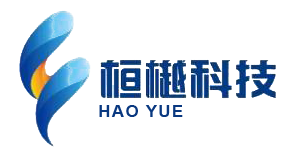
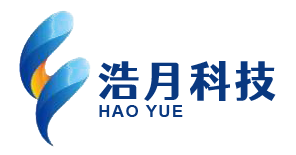
edit text 浩月

Changed region(s): [[0.3345, 0.3871, 0.9426, 0.671]]

diff --git a/index.html b/index.html
@@ -43,7 +43,7 @@
                   </div>
                   <div class="u-container-style u-layout-cell u-size-30 u-layout-cell-2">
                     <div class="u-container-layout u-valign-middle-lg u-valign-middle-xl u-valign-middle-xs u-valign-middle-xxl u-container-layout-3">
-                      <p class="u-text u-text-default-lg u-text-2"> +全球加粉引流浩月科技 TG飞机@HY0995</p>
+                      <p class="u-text u-text-default-lg u-text-2"> 全球加粉引流浩月科技 TG飞机@HY0995</p>
                     </div>
                   </div>
                 </div>
@@ -59,17 +59,17 @@
               <li> 选择怎样的海外社交媒体平台？</li>
             </ul>
             <p class="u-text u-text-7"> 选择适用于您的企业客户人群所集中的的社交平台，并且通过目标受众标准比如：年龄，性别，国家，职业，兴趣，收入等选择到最精准的广告受众！<br>
-              <br>风火轮科技拥有丰富的行业经验和完善的策略方针，深耕海外社交生态，科技等多个专门领域，为您度身定制最优营销方案。对全球不同市场有这深刻的洞察力和见解。以海量用户信息为依托，精准用户行为模式，洞察全球移动互联网趋势，提供更精准的服务。
+              <br>浩月科技拥有丰富的行业经验和完善的策略方针，深耕海外社交生态，科技等多个专门领域，为您度身定制最优营销方案。对全球不同市场有这深刻的洞察力和见解。以海量用户信息为依托，精准用户行为模式，洞察全球移动互联网趋势，提供更精准的服务。
             </p>
             <img class="u-image u-image-default u-image-3" src="images/v2-3e417629053006218260269a1bd63cee_r.jpg" alt="" data-image-width="6000" data-image-height="4000">
             <ol class="u-text u-text-8">
-              <li>分析客户业务特征，定位潜在客户，利用全球客户OP信息大数据系统，筛选最优关键字和目标活跃人群，使用风火轮精准雷达靶向系统，快速筛选符合客户业务的高精准数据与高精准粉丝，快速引流精准粉丝到客户的业务生态；<br>
+              <li>分析客户业务特征，定位潜在客户，利用全球客户OP信息大数据系统，筛选最优关键字和目标活跃人群，使用浩月精准雷达靶向系统，快速筛选符合客户业务的高精准数据与高精准粉丝，快速引流精准粉丝到客户的业务生态；<br>
               </li>
-              <li>提供最专业的引流投放方案，根据客户业务特性，提供最符合客户业务的引流投放方案，客户可轻松放心跟风火轮最简单的业务对接，即可立即进行业务跑粉，毕竟时间效率就是金钱；<br>
+              <li>提供最专业的引流投放方案，根据客户业务特性，提供最符合客户业务的引流投放方案，客户可轻松放心跟浩月最简单的业务对接，即可立即进行业务跑粉，毕竟时间效率就是金钱；<br>
               </li>
-              <li>风火轮有长期稳定实时更新的全球大数据引擎系统，24小时分析大量全球社交媒体数据，拥有最实时最新最高活跃的全球大数据基础，基于此基础进行海外社交媒体推广即可轻松达到最高效的效果，为客户找到最精准的粉丝，节省客户投入，创造更大的业务价值；<br>
+              <li>浩月有长期稳定实时更新的全球大数据引擎系统，24小时分析大量全球社交媒体数据，拥有最实时最新最高活跃的全球大数据基础，基于此基础进行海外社交媒体推广即可轻松达到最高效的效果，为客户找到最精准的粉丝，节省客户投入，创造更大的业务价值；<br>
               </li>
-              <li>长期深耕海外社交媒体加粉推广，风火轮以以往经验，不断优化迭代优化引流加粉的广告活动，目前风火轮引粉推广系统已非常稳定，长期运作，极大降低客户的运营成本和试错成本<br>
+              <li>长期深耕海外社交媒体加粉推广，浩月以以往经验，不断优化迭代优化引流加粉的广告活动，目前浩月引粉推广系统已非常稳定，长期运作，极大降低客户的运营成本和试错成本<br>
               </li>
               <li>可自定义引流资料，如加粉话术，加粉人设，加粉背景设定，自定义定制的程度高，可符合各行各业的客户；<br>
               </li>
@@ -79,8 +79,8 @@
               </li>
             </ol>
             <img class="u-image u-image-default u-image-4" src="images/v2-d6d28dc731114cbb4c383cefe633e037_720w.jpg" alt="" data-image-width="720" data-image-height="377">
-            <p class="u-text u-text-9"> 对于从事海外业务的公司或者商家，风火轮的目标是在短时间内，由我们的专家为您快速建立社交媒体上的精准客户和粉丝，我们会协助公司或者品牌在不同的社交平台（Facebook，Tik Tok，WhatsApp，Line，Tinder，Instagram，YouTube等）上建立起属于自己的私域流量生态圈，设计最适合客户的引流运营计划。风火轮是由专业工程师及营销专家组成，提供最有效率的海外社交媒体私域流量服务。<br>
-              <br>精准雷达推广裂变系统，快速裂变覆盖全球指定国家，需要进一步了解，可联系风火轮科技客服：客服TG<br>
+            <p class="u-text u-text-9"> 对于从事海外业务的公司或者商家，浩月的目标是在短时间内，由我们的专家为您快速建立社交媒体上的精准客户和粉丝，我们会协助公司或者品牌在不同的社交平台（Facebook，Tik Tok，WhatsApp，Line，Tinder，Instagram，YouTube等）上建立起属于自己的私域流量生态圈，设计最适合客户的引流运营计划。浩月是由专业工程师及营销专家组成，提供最有效率的海外社交媒体私域流量服务。<br>
+              <br>精准雷达推广裂变系统，快速裂变覆盖全球指定国家，需要进一步了解，可联系浩月科技客服：客服TG<br>
               <br>让粉丝团成为您的金矿，轻松让新客户跑过来，让您足不出户，坐享全球优质商机，做全球市场的生意，轻松赚钱。<br>
             </p>
             <img class="u-image u-image-default u-image-5" src="images/v2-978ec4b6a9663a33feb14d82552f4335_720w.jpg" alt="" data-image-width="720" data-image-height="480">
